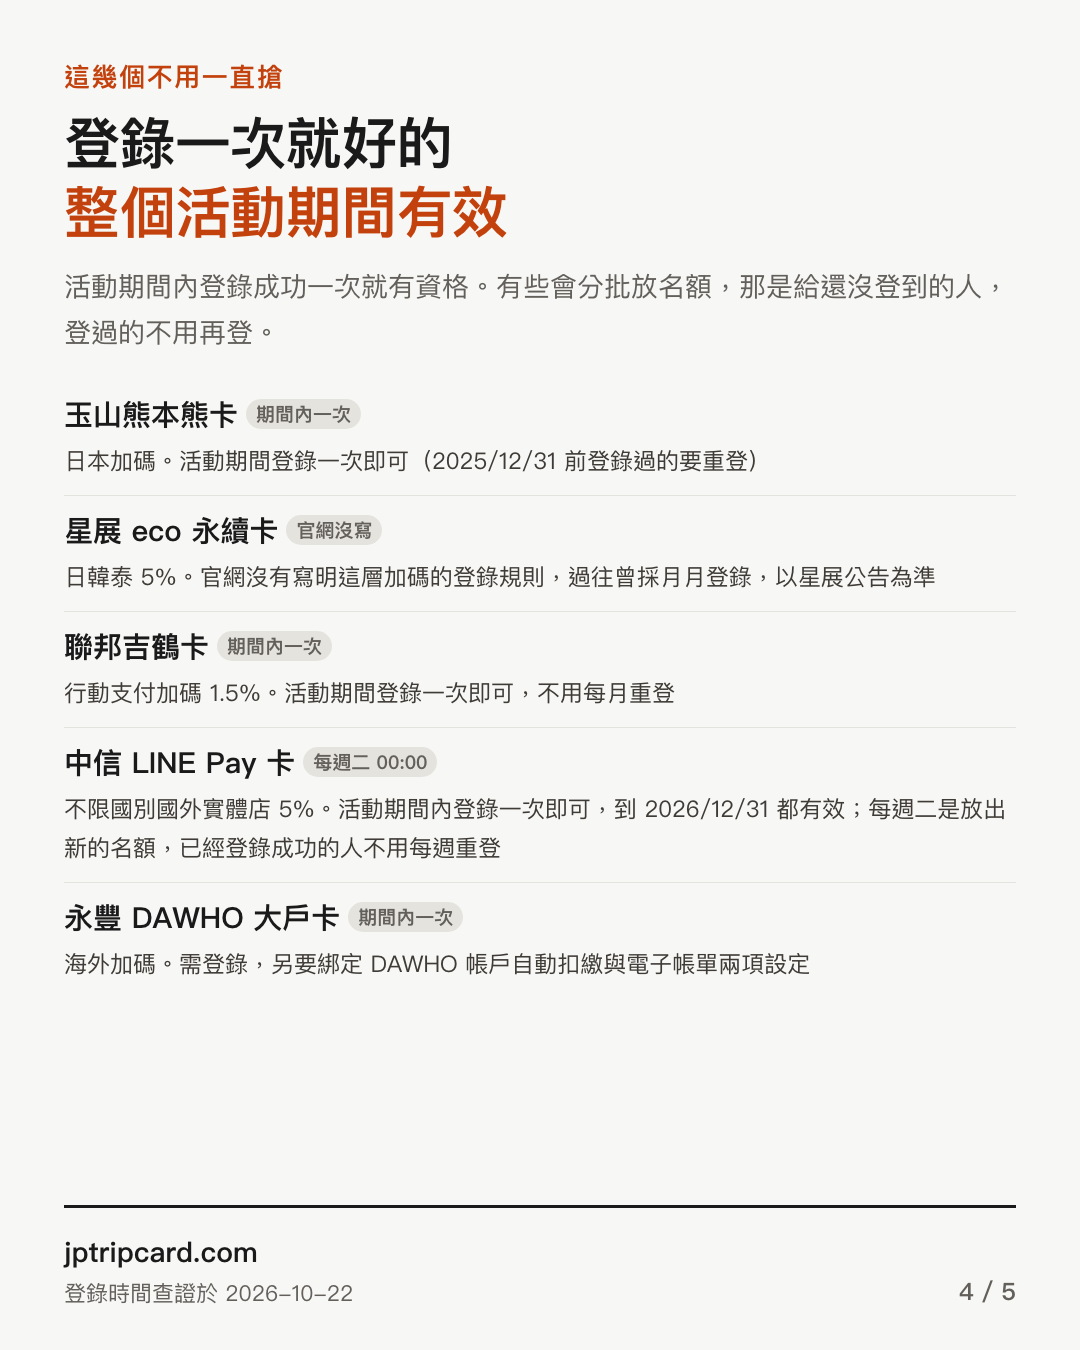
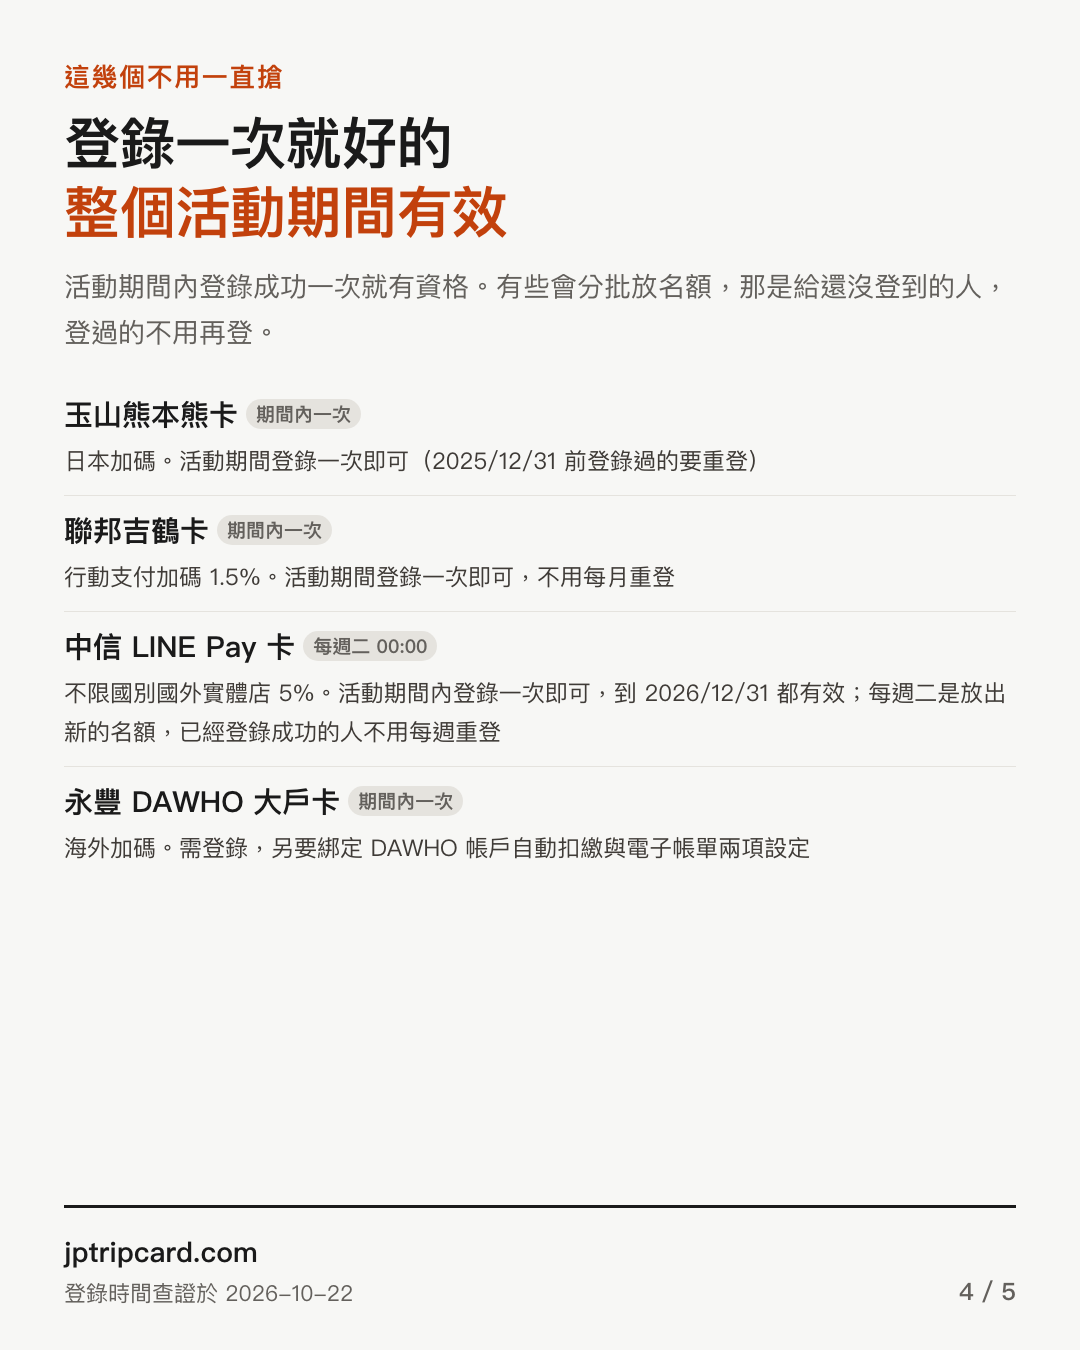
星展 eco 日韓泰加碼確認免登錄；永豐 JCB 2027 第一季開放日加註
・星展 eco：官網注意事項寫在指定地區實體刷卡、非台幣、帳單列國外交易手續費
  「即可符合額外加碼活動」，沒有登錄步驟。拿掉登錄日曆裡「官網沒寫」那筆，
  和小抄、卡片頁的「免登錄」統一。
・永豐現金回饋 JCB：官網兩處都寫 2027 第一季 2027/3/25 10:00 開放登錄，
  不是本站誤植；但前兩季都是季初第 2 天，加註提醒登錄前再看一次官網。
・dates 支援 note 欄位；分享圖卡重產。

Changed region(s): [[0.0611, 0.4667, 0.9167, 0.7467], [0.0611, 0.3733, 0.7028, 0.4356], [0.7333, 0.4044, 0.8556, 0.4356]]

diff --git a/gen.py b/gen.py
@@ -21295,6 +21295,7 @@ if os.path.exists('cards.json'):
               + ''.join(
                   f'<br><small>{html.escape(x["label"])}：{x["open"]} 開放'
                   + (f'，{x["full"]} 額滿' if x.get('full') else '')
+                  + (f'（{html.escape(x["note"])}）' if x.get('note') else '')
                   + '</small>' for x in e.get('dates', []))
               + '</li>' for e in c.get('reg_events', []))
           + '</ul></div>'
